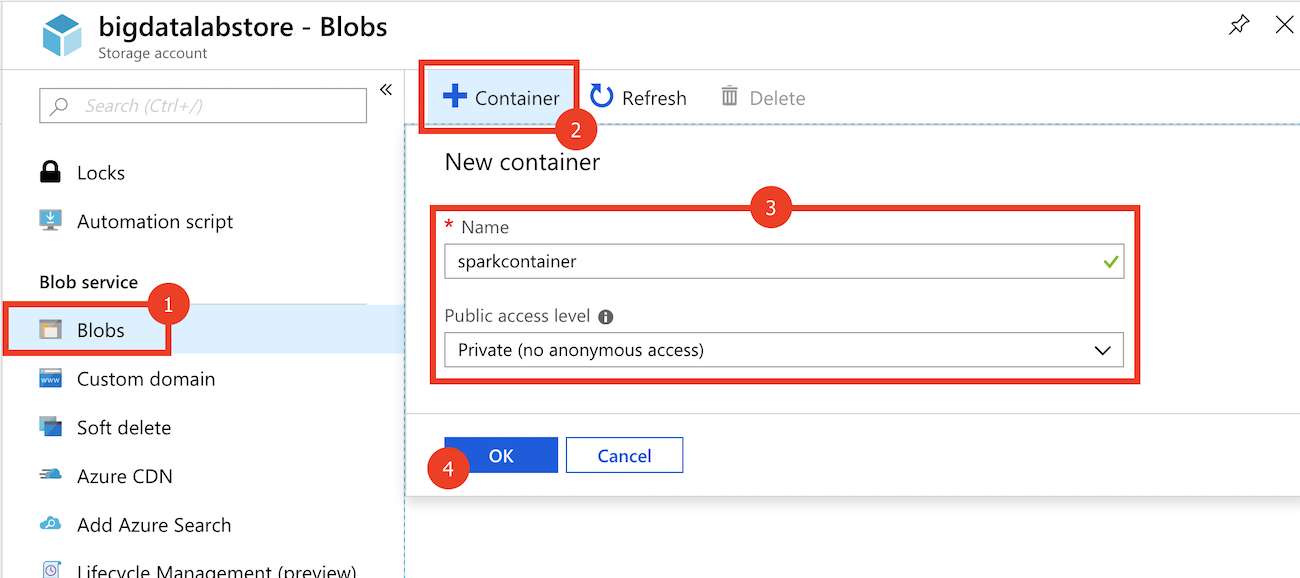
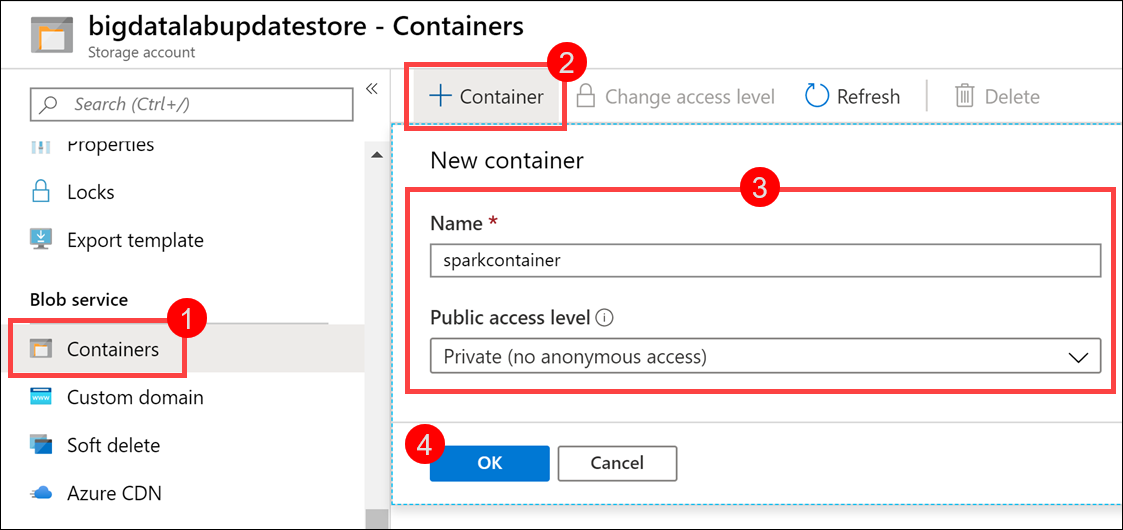
Update before the HOL

Changed region(s): [[0.0, 0.0, 1.0, 1.0]]

diff --git a/Hands-on lab/Before the HOL - Big data and visualization.md b/Hands-on lab/Before the HOL - Big data and visualization.md
@@ -9,7 +9,7 @@ Before the hands-on lab setup guide
 </div>
 
 <div class="MCWHeader3">
-September 2019
+November 2019
 </div>
 
 Information in this document, including URL and other Internet Web site references, is subject to change without notice. Unless otherwise noted, the example companies, organizations, products, domain names, e-mail addresses, logos, people, places, and events depicted herein are fictitious, and no association with any real company, organization, product, domain name, e-mail address, logo, person, place or event is intended or should be inferred. Complying with all applicable copyright laws is the responsibility of the user. Without limiting the rights under copyright, no part of this document may be reproduced, stored in or introduced into a retrieval system, or transmitted in any form or by any means (electronic, mechanical, photocopying, recording, or otherwise), or for any purpose, without the express written permission of Microsoft Corporation.
@@ -45,7 +45,7 @@ Microsoft and the trademarks listed at <https://www.microsoft.com/en-us/legal/in
 
     a. Trial subscriptions will not work.
 
-2. If you are not a Service Administrator or Co-administrator for the Azure subscription, or if you are running the lab in a hosted environment, you will need to install [Visual Studio 2019 Community](https://visualstudio.microsoft.com/downloads/) with the **ASP.NET and web development** and **Azure development** workloads.
+2.  If you are not a Service Administrator or Co-administrator for the Azure subscription, or if you are running the lab in a hosted environment, you will need to install [Visual Studio 2019 Community](https://visualstudio.microsoft.com/downloads/) with the **ASP.NET and web development** and **Azure development** workloads.
 
 ## Before the hands-on lab
 
@@ -57,7 +57,11 @@ In this exercise, you will set up your environment for use in the rest of the ha
 
 Azure Databricks is an Apache Spark-based analytics platform optimized for Azure. It will be used in this lab to build and train a machine learning model used to predict flight delays.
 
-1. In the [Azure Portal](https://portal.azure.com) (https://portal.azure.com), select **+ Create a resource**, then type "Azure Databricks" into the search bar. Select Azure Databricks from the results.
+> **Note**: To view the Azure portal menu, select the menu icon in the upper left-hand corner.
+
+![The Azure portal menu is highlighted.](media/portal-menu.png 'Azure portal menu')
+
+1. In the [Azure Portal](https://portal.azure.com) (https://portal.azure.com), select **+ Create a resource** within the portal menu, then type "Azure Databricks" into the search bar. Select Azure Databricks from the results.
 
    ![Select create a resource, type in Azure Databricks, then select it from the results list](media/create-azure-databricks-resource.png)
 
@@ -123,7 +127,7 @@ In this task, you will create a storage container in which you will store your f
 
    ![Select the lab Azure Storage account from within your lab resource group](media/select-azure-storage-account.png)
 
-3. Select **Blobs** (1) from the menu. Select **+ Container** (2) on the Blobs blade, enter **sparkcontainer** for the name (3), leaving the public access level set to Private. Select **OK** (4) to create the container.
+3. Select **Containers** (1) from the menu. Select **+ Container** (2) on the Blobs blade, enter **sparkcontainer** for the name (3), leaving the public access level set to Private. Select **OK** (4) to create the container.
 
    ![Screenshot showing the steps to create a new storage container](media/azure-storage-create-container.png)
 

diff --git a/Whiteboard design session/WDS student guide - Big data and visualization.md b/Whiteboard design session/WDS student guide - Big data and visualization.md
@@ -9,7 +9,7 @@ Whiteboard design session student guide
 </div>
 
 <div class="MCWHeader3">
-September 2019
+November 2019
 </div>
 
 Information in this document, including URL and other Internet Web site references, is subject to change without notice. Unless otherwise noted, the example companies, organizations, products, domain names, e-mail addresses, logos, people, places, and events depicted herein are fictitious, and no association with any real company, organization, product, domain name, e-mail address, logo, person, place or event is intended or should be inferred. Complying with all applicable copyright laws is the responsibility of the user. Without limiting the rights under copyright, no part of this document may be reproduced, stored in or introduced into a retrieval system, or transmitted in any form or by any means (electronic, mechanical, photocopying, recording, or otherwise), or for any purpose, without the express written permission of Microsoft Corporation.

diff --git a/Whiteboard design session/WDS trainer guide - Big data and visualization.md b/Whiteboard design session/WDS trainer guide - Big data and visualization.md
@@ -9,7 +9,7 @@ Whiteboard design session trainer guide
 </div>
 
 <div class="MCWHeader3">
-September 2019
+November 2019
 </div>
 
 Information in this document, including URL and other Internet Web site references, is subject to change without notice. Unless otherwise noted, the example companies, organizations, products, domain names, e-mail addresses, logos, people, places, and events depicted herein are fictitious, and no association with any real company, organization, product, domain name, e-mail address, logo, person, place or event is intended or should be inferred. Complying with all applicable copyright laws is the responsibility of the user. Without limiting the rights under copyright, no part of this document may be reproduced, stored in or introduced into a retrieval system, or transmitted in any form or by any means (electronic, mechanical, photocopying, recording, or otherwise), or for any purpose, without the express written permission of Microsoft Corporation.

diff --git a/Hands-on lab/HOL step-by-step - Big data and visualization.md b/Hands-on lab/HOL step-by-step - Big data and visualization.md
@@ -9,7 +9,7 @@ Hands-on lab step-by-step
 </div>
 
 <div class="MCWHeader3">
-September 2019
+November 2019
 </div>
 
 Information in this document, including URL and other Internet Web site references, is subject to change without notice. Unless otherwise noted, the example companies, organizations, products, domain names, e-mail addresses, logos, people, places, and events depicted herein are fictitious, and no association with any real company, organization, product, domain name, e-mail address, logo, person, place or event is intended or should be inferred. Complying with all applicable copyright laws is the responsibility of the user. Without limiting the rights under copyright, no part of this document may be reproduced, stored in or introduced into a retrieval system, or transmitted in any form or by any means (electronic, mechanical, photocopying, recording, or otherwise), or for any purpose, without the express written permission of Microsoft Corporation.

diff --git a/README.md b/README.md
@@ -4,7 +4,7 @@ Margie's Travel (MT) provides concierge services for business travelers. In an i
 
 They are looking to pilot a web app that their internal customer service agents can use to provide additional information useful to the traveler during the flight booking process. They want to enable their agents to enter in the flight information and produce a prediction as to whether the departing flight will encounter a 15-minute or longer delay, considering the weather forecasted for the departure hour.
 
-September 2019
+November 2019
 
 ## Target audience
 
